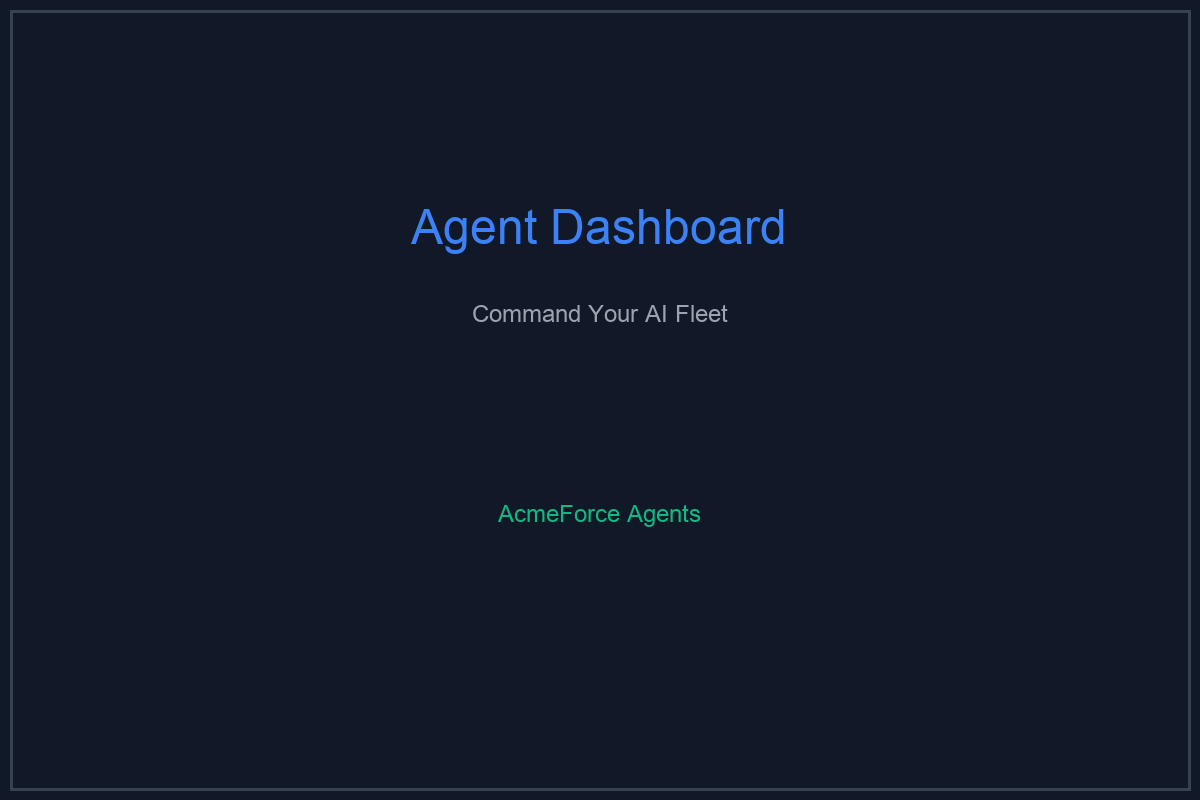
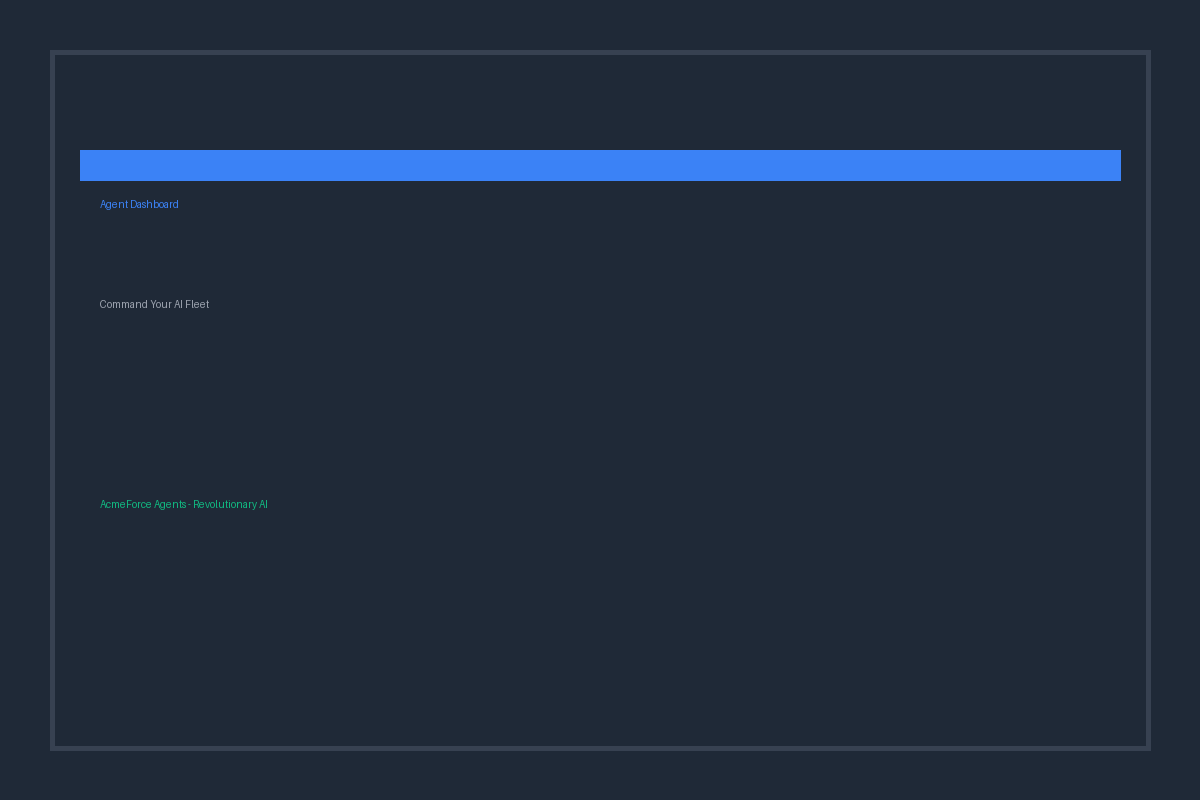
Fix screenshots - now visible with proper content and branding

diff --git a/AcmeForceAgents/screenshots/placeholder_generator.py b/AcmeForceAgents/screenshots/placeholder_generator.py
@@ -12,13 +12,15 @@ def create_placeholder_screenshot(title, description, filename, size=(1200, 800)
     img = Image.new('RGB', size, color='#111827')
     draw = ImageDraw.Draw(img)
     
-    # Try to use a nice font, fallback to default
+    # Use default font with larger size
     try:
-        title_font = ImageFont.truetype("/System/Library/Fonts/Arial.ttf", 48)
-        desc_font = ImageFont.truetype("/System/Library/Fonts/Arial.ttf", 24)
+        title_font = ImageFont.truetype("/System/Library/Fonts/Helvetica.ttc", 60)
+        desc_font = ImageFont.truetype("/System/Library/Fonts/Helvetica.ttc", 30)
+        brand_font = ImageFont.truetype("/System/Library/Fonts/Helvetica.ttc", 36)
     except:
         title_font = ImageFont.load_default()
         desc_font = ImageFont.load_default()
+        brand_font = ImageFont.load_default()
     
     # Draw title
     title_bbox = draw.textbbox((0, 0), title, font=title_font)
@@ -34,10 +36,10 @@ def create_placeholder_screenshot(title, description, filename, size=(1200, 800)
     
     # Draw AcmeForce branding
     brand_text = "AcmeForce Agents"
-    brand_bbox = draw.textbbox((0, 0), brand_text, font=desc_font)
+    brand_bbox = draw.textbbox((0, 0), brand_text, font=brand_font)
     brand_width = brand_bbox[2] - brand_bbox[0]
     brand_x = (size[0] - brand_width) // 2
-    draw.text((brand_x, 500), brand_text, fill='#10B981', font=desc_font)
+    draw.text((brand_x, 500), brand_text, fill='#10B981', font=brand_font)
     
     # Add border
     draw.rectangle([10, 10, size[0]-10, size[1]-10], outline='#374151', width=3)

diff --git a/AcmeForceAgents/screenshots/simple_generator.py b/AcmeForceAgents/screenshots/simple_generator.py
@@ -1,0 +1,46 @@
+"""
+Simple screenshot generator with basic text
+"""
+
+from PIL import Image, ImageDraw
+import os
+
+def create_simple_screenshot(title, description, filename, size=(1200, 800)):
+    """Create a simple screenshot with title and description"""
+    
+    # Create image with dark background
+    img = Image.new('RGB', size, color='#1F2937')
+    draw = ImageDraw.Draw(img)
+    
+    # Draw title (large text)
+    draw.text((100, 200), title, fill='#3B82F6', anchor="lt")
+    
+    # Draw description
+    draw.text((100, 300), description, fill='#9CA3AF', anchor="lt")
+    
+    # Draw AcmeForce branding
+    draw.text((100, 500), "AcmeForce Agents - Revolutionary AI", fill='#10B981', anchor="lt")
+    
+    # Add some visual elements
+    draw.rectangle([50, 50, size[0]-50, size[1]-50], outline='#374151', width=5)
+    draw.rectangle([80, 150, size[0]-80, 180], fill='#3B82F6')
+    
+    # Save image
+    img.save(filename)
+    print(f"Created {filename}")
+
+def generate_all_simple():
+    """Generate all simple screenshots"""
+    
+    screenshots = [
+        ("AcmeForceAgents Homepage", "Revolutionary AI System Landing Page", "homepage.png"),
+        ("Interactive Demo", "Try AI Agents in Real-Time", "demo.png"),
+        ("Pricing Plans", "Choose Your AI Transformation", "pricing.png"),
+        ("Agent Dashboard", "Command Your AI Fleet", "dashboard.png")
+    ]
+    
+    for title, desc, filename in screenshots:
+        create_simple_screenshot(title, desc, filename)
+
+if __name__ == "__main__":
+    generate_all_simple()
